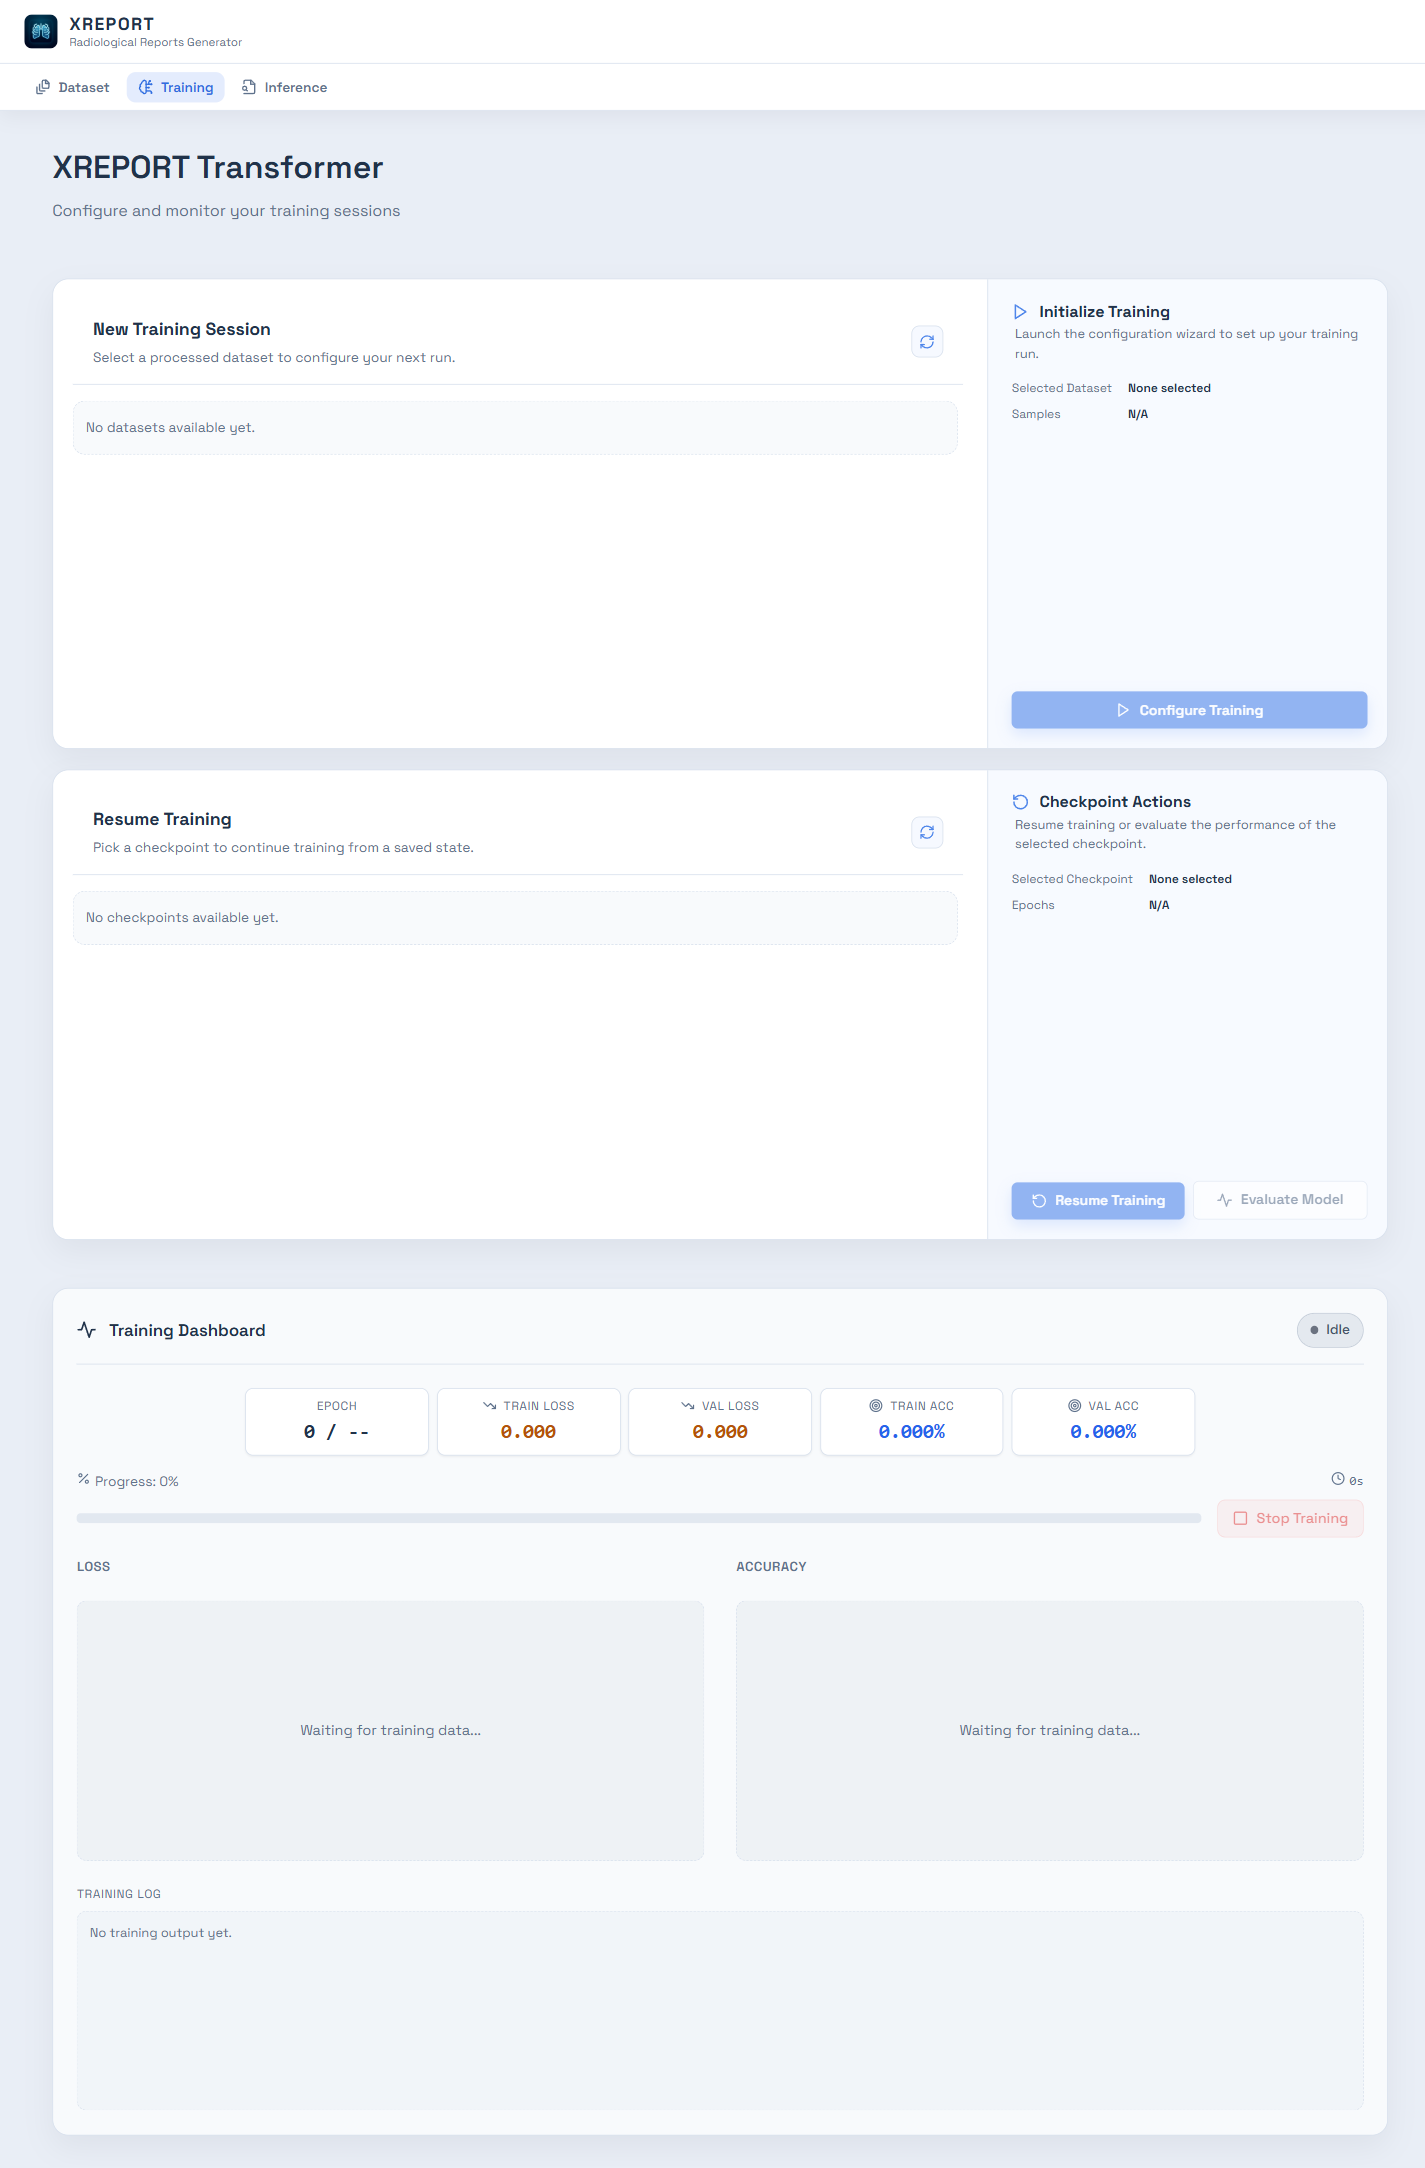
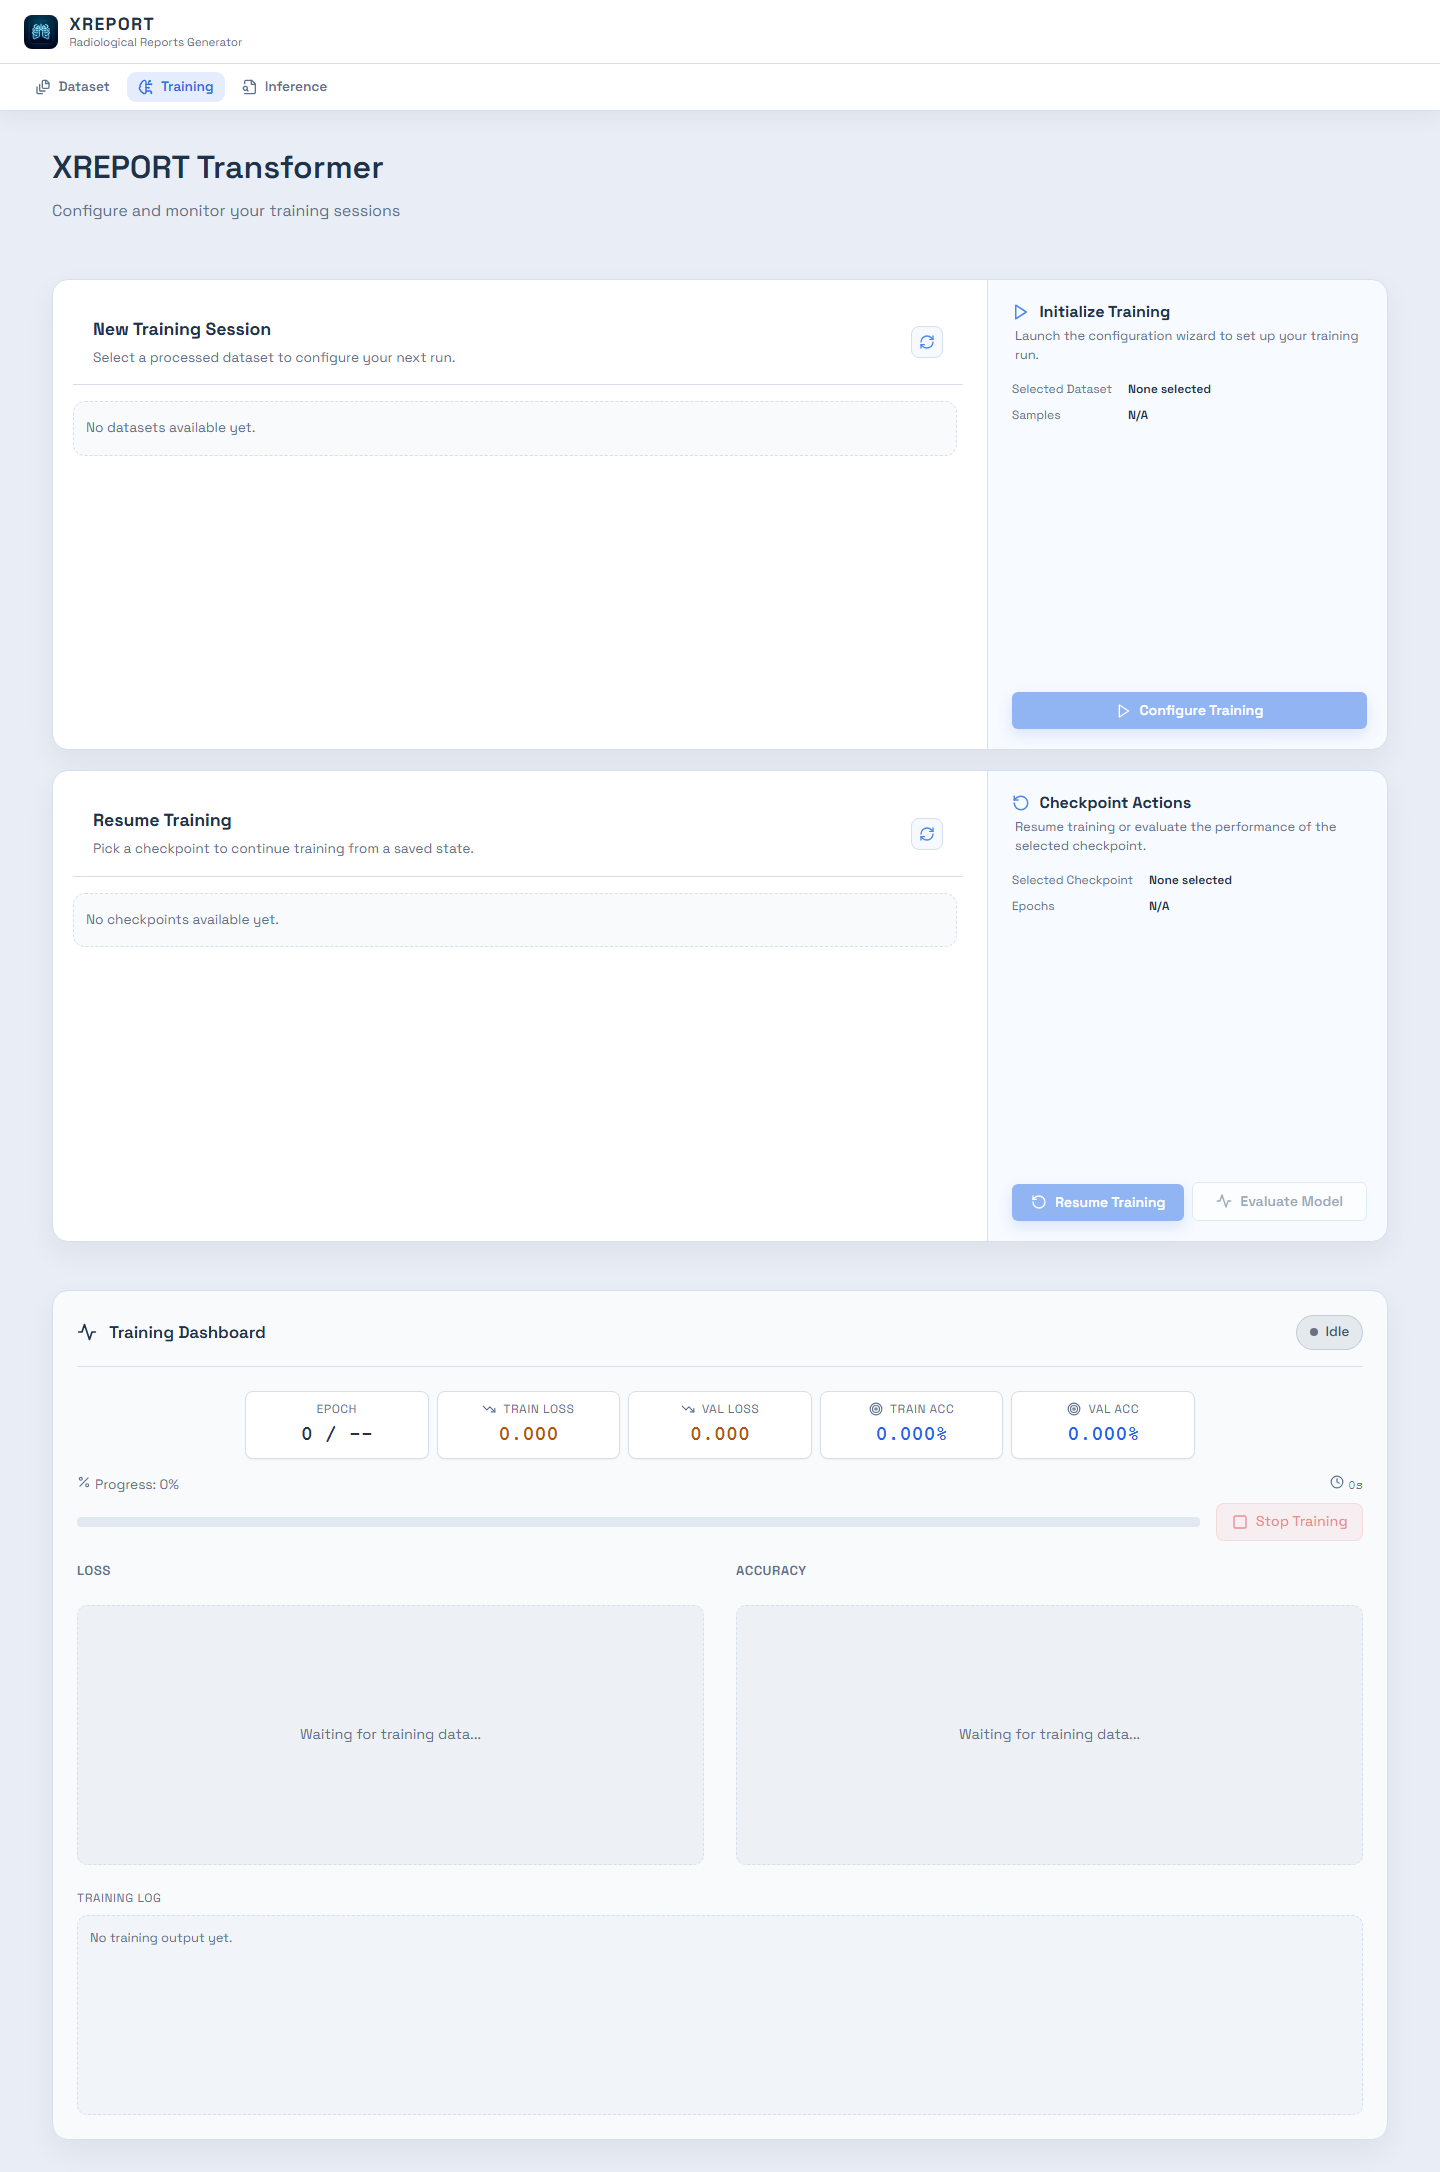
docs: refresh README snapshots for v2.4.0

diff --git a/README.md b/README.md
@@ -99,6 +99,8 @@ npm run preview -- --host 127.0.0.1 --port 8003
 
 ### 4.3 UI Snapshots
 
+The snapshots below were captured from the current Windows desktop build at 1440×920.
+
 - **Dataset management**: data source selection and dataset processing configuration.
   ![Dataset management page](assets/figures/readme-dataset.png)
 - **Training workspace**: training session setup, checkpoint actions, and training dashboard.
